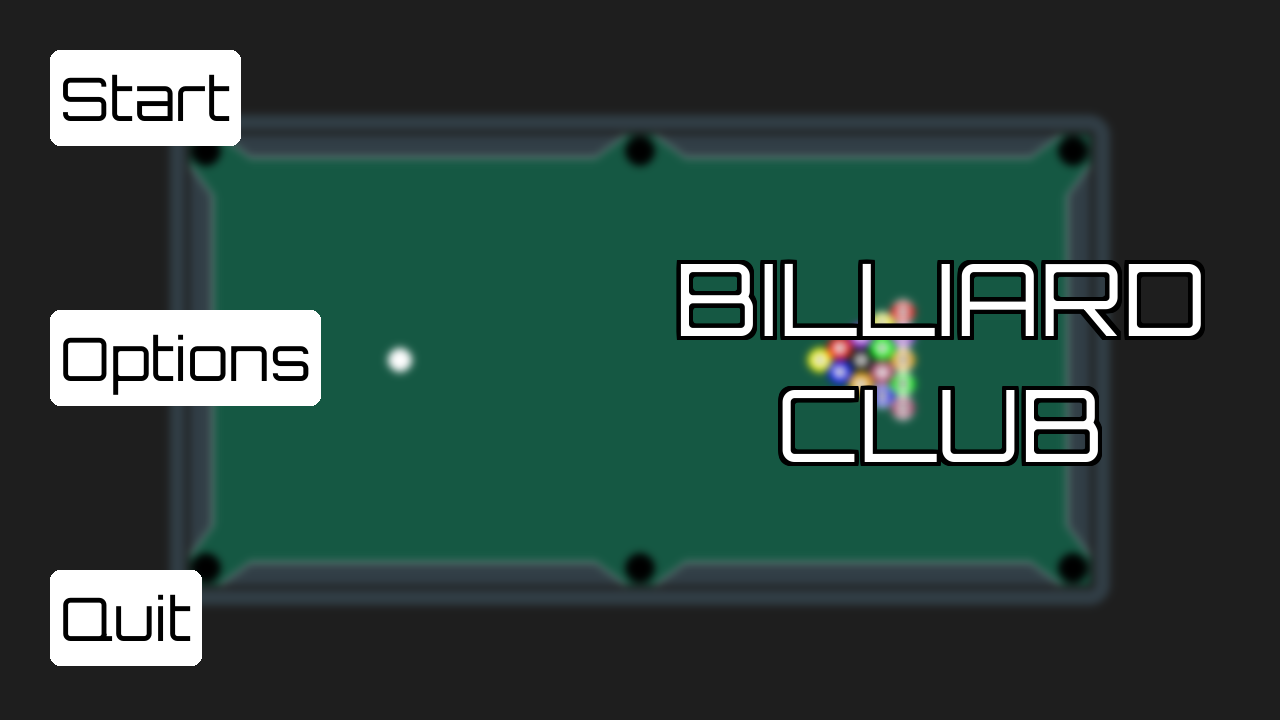
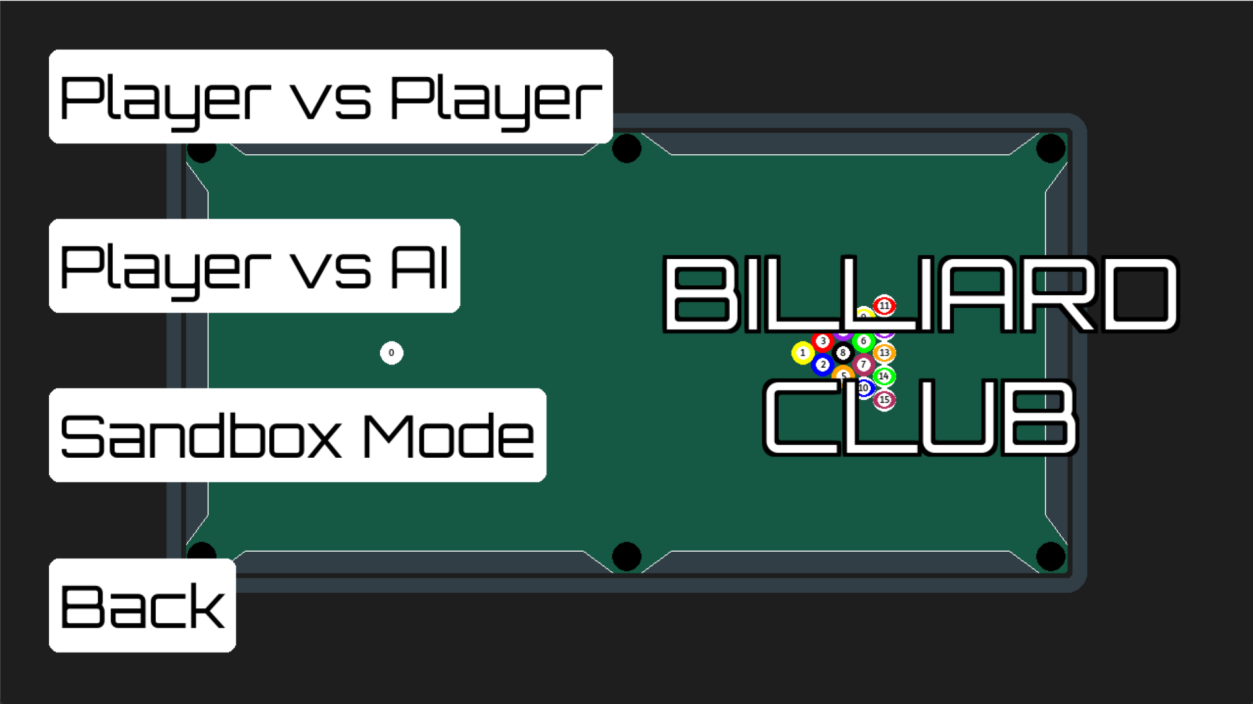
Update screenshots to sharper in-engine captures, add Customise Game

diff --git a/README.md b/README.md
@@ -12,6 +12,9 @@ The game features full 8-ball pool logic, realistic ball physics, a basic AI opp
 **Gameplay — breaking the rack**
 ![Gameplay](screenshots/gameplay_break.png)
 
+**Customise Game**
+![Customise Game](screenshots/customise_game.png)
+
 **Win Screen**
 ![Win Screen](screenshots/win_screen.png)
 
